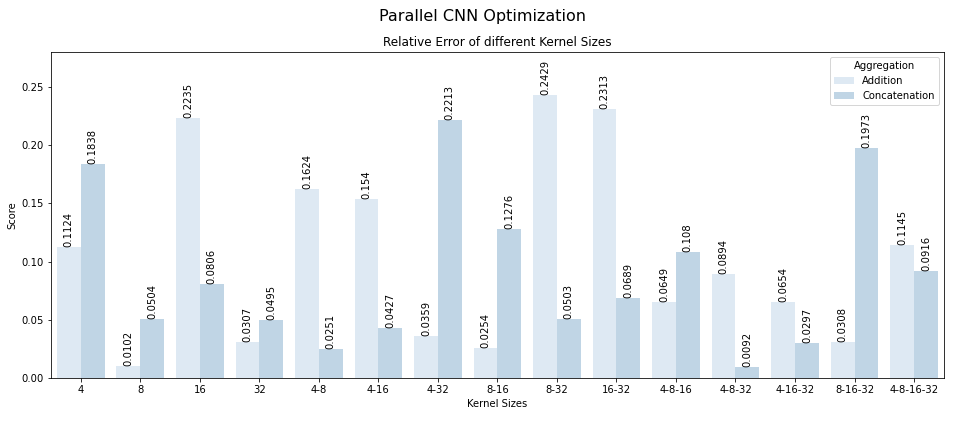
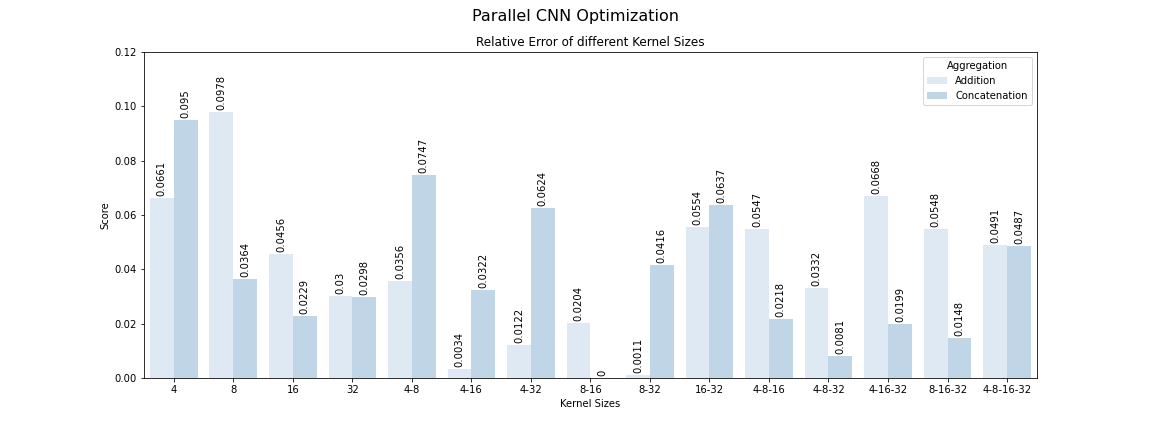
Rerun Training of Parallel CNN with 3 repeats - Update figure and results

diff --git a/3_Train_Wave_Models.py b/3_Train_Wave_Models.py
@@ -88,14 +88,14 @@ def test_parallel_cnn_architecture():
         print('Current model type is Addition.')
         model = WM.build_parallel_cnn(input_shape=features[0].shape, num_classes=class_count, kernel_sizes=sizes,
                                       n_convs=5, aggregation_mode='add', print_summary=False)
-        score = Training.get_stable_metric(model=model, features=features, labels=labels, metric='rel_error', repeats=1,
+        score = Training.get_stable_metric(model=model, features=features, labels=labels, metric='rel_error', repeats=3,
                                            aggregation_mode='min', augmentation_fn=augment_engineer.apply_both_tf)
         scores['Addition'].append(score)
 
         print('Current model type is Concatenate.')
         model = WM.build_parallel_cnn(input_shape=features[0].shape, num_classes=class_count, kernel_sizes=sizes,
                                       n_convs=5, aggregation_mode='concat', print_summary=False)
-        score = Training.get_stable_metric(model=model, features=features, labels=labels, metric='rel_error', repeats=1,
+        score = Training.get_stable_metric(model=model, features=features, labels=labels, metric='rel_error', repeats=3,
                                            aggregation_mode='min', augmentation_fn=augment_engineer.apply_both_tf)
         scores['Concatenation'].append(score)
 
@@ -164,11 +164,11 @@ def main():
 if __name__ == '__main__':
     # Parse command line arguments
     parser = argparse.ArgumentParser()
-    parser.add_argument('--wavenet', type=bool, default=False, choices=[True, False],
+    parser.add_argument('--wavenet', type=bool, default=True, choices=[True, False],
                         help='Choose to test different WaveNet architectures.')
     parser.add_argument('--parallel', type=bool, default=True, choices=[True, False],
                         help='Choose to test different kernel sizes.')
-    parser.add_argument('--augment', type=bool, default=False, choices=[True, False],
+    parser.add_argument('--augment', type=bool, default=True, choices=[True, False],
                         help='Choose to study the impact of data augmentation.')
     parser.add_argument('--save', type=bool, default=True, choices=[True, False],
                         help='Select to save the results to external files.')
